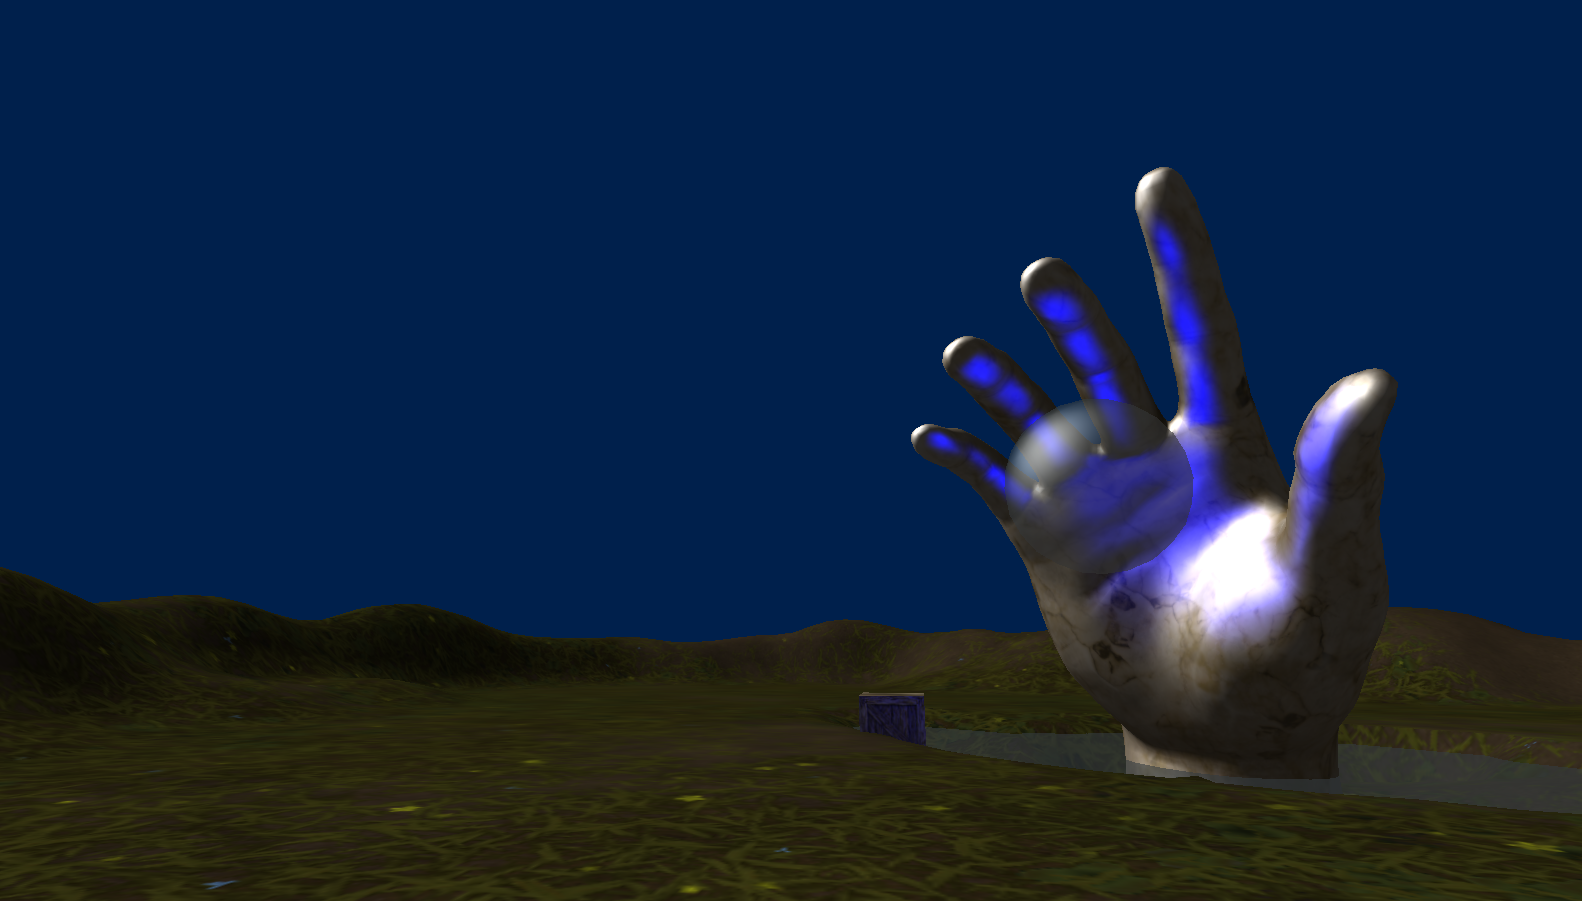
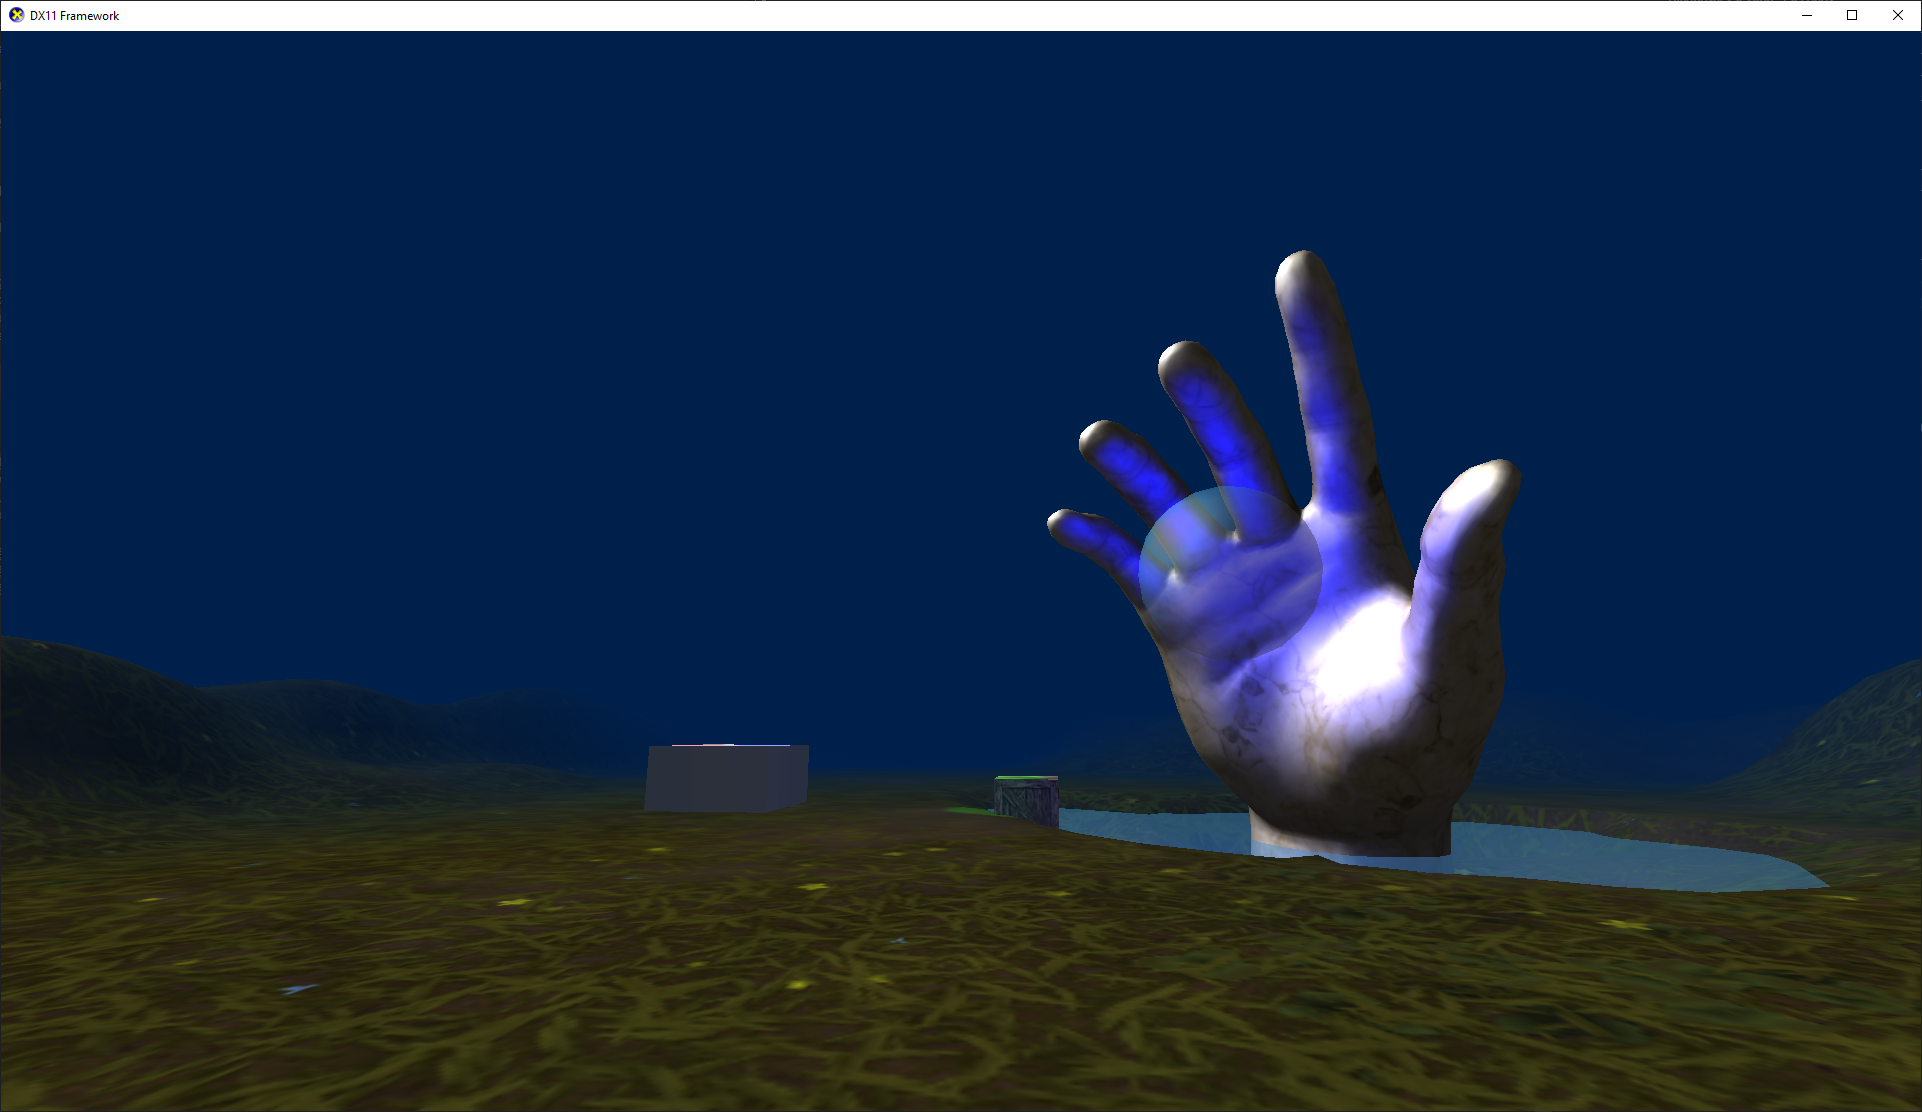
Update README and screenshots

diff --git a/README.md b/README.md
@@ -11,17 +11,16 @@ This small application is a project developed for university that involves learn
 Specifically, the following featuers have been implemented:
 
 - Reading from YAML to add materials, cameras, scenery, and other settings without recompiling.
-- Phong shading, including ambient, diffuse, and specular lighting.
+- Blinn-Phong shading, including ambient, diffuse, and specular lighting.
 - Materials include albedo and specular map textures with lighting interaction.
-- Point and Directional lights that use Phong shading, configurable via YAML.
+- Point, Spot, and Directional lights, configurable via YAML.
 - A free camera and normal camera, switchable using the number keys.
 - Pixel colour blending for translucent objects
-
-I am currently working on skyboxes, and potentially even basic heightmap terrain generation if time permits.
+- Fog that also uses colour blending.
 
 ## Credits
 
-- [yaml-cpp](https://github.com/jbeder/yaml-cpp) by Jesse Beder
+- [yaml-cpp](https://github.com/jbeder/yaml-cpp) by Jesse Beder is licenced under the MIT licence.
 - [Patchy Medow](https://freepbr.com/materials/patchy-meadow/) texture by freepbr.com
 - [Hand Sculpture](https://skfb.ly/oxY6x) by re1monsen is licensed under [Creative Commons Attribution](http://creativecommons.org/licenses/by/4.0/)
 - Base framework provided by the university, as seen in the first commit.
@@ -29,3 +28,4 @@ I am currently working on skyboxes, and potentially even basic heightmap terrain
 ![Screenshot](sc1.png)
 ![Screenshot](sc2.png)
 ![Screenshot](sc3.png)
+![Screenshot](sc4.png)
